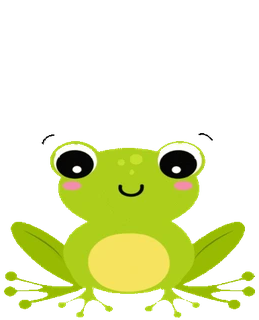
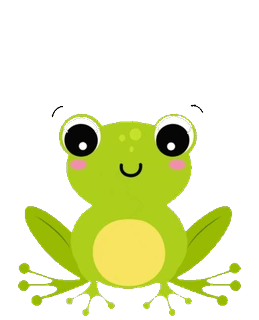
Add files via upload

diff --git a/index.html b/index.html
@@ -1012,6 +1012,7 @@
     .filter-row>.filter-search{grid-column:3;grid-row:1;align-self:stretch;height:40px}
     .filter-row>#fType{grid-column:1/-1;grid-row:2;display:flex;flex-wrap:wrap;overflow:visible;gap:6px;margin:0;padding:2px 0 0}
     .filter-row>#fType .chip{flex:0 0 auto}
+    .filter-row>#fType.linha .chip,#fSubj.linha .chip{flex:1 1 auto;text-align:center;justify-content:center}
     .filter-row>#fType.mobile-collapsed,#fSubj.mobile-collapsed{display:none}
     #fSubj{flex-wrap:wrap;gap:6px}
   }
@@ -1102,17 +1103,17 @@
   /* ===== barra de ações no rodapé (Menu · coração · Conversa) ===== */
   .dock{position:fixed;left:0;right:0;bottom:0;z-index:60;display:grid;grid-template-columns:1fr 72px 1fr;align-items:stretch;width:100%;
     height:calc(58px + env(safe-area-inset-bottom));padding-bottom:env(safe-area-inset-bottom);border-radius:0;
-    background:transparent;box-shadow:none;pointer-events:none}
+    background:linear-gradient(90deg,#A472EE,#7C4DC4 50%,#4C3499);box-shadow:0 -2px 10px rgba(63,39,100,.14);pointer-events:none}
   .dock-b{flex:1;min-width:0;position:relative;display:flex;align-items:center;justify-content:center;gap:9px;pointer-events:auto;
     border:0;color:#fff;font:inherit;font-size:18px;font-weight:900;border-radius:0;transition:filter .15s;
-    box-shadow:0 -2px 10px rgba(63,39,100,.14)}
-  #fab{background:linear-gradient(90deg,#A472EE,#7C4DC4);border-radius:0;padding:0}
-  #chatFab{background:linear-gradient(90deg,#7C4DC4,#4C3499);border-radius:0;padding:0}
-  .dock-b:active{filter:brightness(.92)}
+    box-shadow:none}
+  #fab{background:transparent;border-radius:0;padding:0}
+  #chatFab{background:transparent;border-radius:0;padding:0}
+  .dock-b:active{background:rgba(0,0,0,.08)}
   .dock-b:focus-visible{outline:2px solid #fff;outline-offset:-4px}
   .dock-b .di{font-size:23px;line-height:1}
   .dock-b .dt{white-space:nowrap}
-  .dock-gap{display:block;background:#7C4DC4}   /* coluna do meio: mesma cor da emenda, fica atras da bolinha */
+  .dock-gap{display:block;background:transparent}   /* coluna do meio, so para reservar o lugar da bolinha */
   .dock .chatfab{display:none}
   .dock .chatfab.on{display:flex}
   .dock-mid{pointer-events:auto;position:absolute;left:50%;top:auto;bottom:calc(env(safe-area-inset-bottom) + 5px);margin:0;transform:translateX(-50%);width:64px;height:64px;border-radius:50%;
@@ -2545,13 +2546,24 @@ function renderFilters(){
     if(k==='all'){ fType='all'; } else { const set=fSet(); const i=set.indexOf(k); if(i>=0) set.splice(i,1); else set.push(k); fType=set.length?set.join('+'):'all'; }
     render(); });
   document.querySelectorAll('[data-s]').forEach(b=>b.onclick=()=>{ fSubj=(fSubj===b.dataset.s&&b.dataset.s!=='all')?'all':b.dataset.s; subjOpen=false; vibrate(15); render(); });
+  esticaChips();
 }
+// opcoes do filtro: se todas cabem numa linha, esticam para ocupar a largura toda; se quebram, ficam no tamanho natural
+function esticaChips(){
+  ['fType','fSubj'].forEach(id=>{ const el=document.getElementById(id); if(!el) return;
+    el.classList.remove('linha'); if(!el.offsetWidth) return;
+    const chips=[...el.querySelectorAll('.chip')]; if(chips.length<2) return;
+    const gap=parseFloat(getComputedStyle(el).columnGap)||6;
+    const soma=chips.reduce((n,c)=>n+c.getBoundingClientRect().width,0)+gap*(chips.length-1);
+    el.classList.toggle('linha',soma<=el.clientWidth+0.5); });
+}
+window.addEventListener('resize',()=>{ clearTimeout(window.__ec); window.__ec=setTimeout(esticaChips,120); });
 function render(){
   filtroPadrao();
   const w=DB.weeks[current];
   renderFam();
   { const hs=allTasks(w).filter(t=>t.type===H&&!t.off); const dn=hs.filter(t=>t.status==='done').length; const pct=hs.length?Math.round(dn/hs.length*100):0;
-    document.getElementById('prog').innerHTML=`<div class="${pct===100?'done':''}"><div class="row"><span><b>${w.label}</b></span><span><b>${dn}</b> de ${hs.length} feitas${pct===100?' 🎉':''}<img class="sapo-prog" src="${Date.now()<sapoAte?'sapinho-pulo.webp?v=3':'sapinho-pulo-parado.png?v=2'}" alt="" role="button" tabindex="0" aria-label="Sapinho" onclick="acordaSapo()" onkeydown="if(event.key==='Enter'||event.key===' '){event.preventDefault();acordaSapo();}" onerror="this.remove()"></span></div><div class="bar"><i style="width:${pct}%"></i><span class="frase" data-pct="${pct}">${esc(fraseProg(pct))}</span><span class="pctin ${pct>=92?'claro':''}">${pct}%</span></div><div class="frase-baixo"></div></div>`; sapoProg(); posicionaFrase(); }
+    document.getElementById('prog').innerHTML=`<div class="${pct===100?'done':''}"><div class="row"><span><b>${w.label}</b></span><span><b>${dn}</b> de ${hs.length} feitas${pct===100?' 🎉':''}<img class="sapo-prog" src="${Date.now()<sapoAte?'sapinho-pulo.webp?v=3':'sapinho-pulo-parado.png?v=3'}" alt="" role="button" tabindex="0" aria-label="Sapinho" onclick="acordaSapo()" onkeydown="if(event.key==='Enter'||event.key===' '){event.preventDefault();acordaSapo();}" onerror="this.remove()"></span></div><div class="bar"><i style="width:${pct}%"></i><span class="frase" data-pct="${pct}">${esc(fraseProg(pct))}</span><span class="pctin ${pct>=92?'claro':''}">${pct}%</span></div><div class="frase-baixo"></div></div>`; sapoProg(); posicionaFrase(); }
   renderFilters();
   const filtering = fType!=='all' || fSubj!=='all' || fQ.length>=2;
   { const qc=document.getElementById('qCnt'), qa=document.getElementById('qAll');
@@ -2711,7 +2723,7 @@ function posicionaFrase(){ const bar=document.querySelector('#prog .bar'), f=doc
 // Sapo da porcentagem: comeca parado; toque nele faz pular por 20 s (e coaxar por 3 s)
 let sapoAte=0, sapoTimer=null;
 function sapoProg(){ const im=document.querySelector('.sapo-prog'); if(!im) return; const anim=Date.now()<sapoAte;
-  const alvo=anim?'sapinho-pulo.webp?v=3':'sapinho-pulo-parado.png?v=2'; if(!im.getAttribute('src').endsWith(alvo)) im.src=alvo;
+  const alvo=anim?'sapinho-pulo.webp?v=3':'sapinho-pulo-parado.png?v=3'; if(!im.getAttribute('src').endsWith(alvo)) im.src=alvo;
   im.classList.toggle('pulando',anim);   // so fica na frente do topo congelado enquanto pula
   clearTimeout(sapoTimer); if(anim) sapoTimer=setTimeout(sapoProg,sapoAte-Date.now()+60); }
 function acordaSapo(){ sapoAte=Date.now()+20000; sapoProg(); playFx('sapo',{loop:true,ms:3000}); vibrate(15); }
